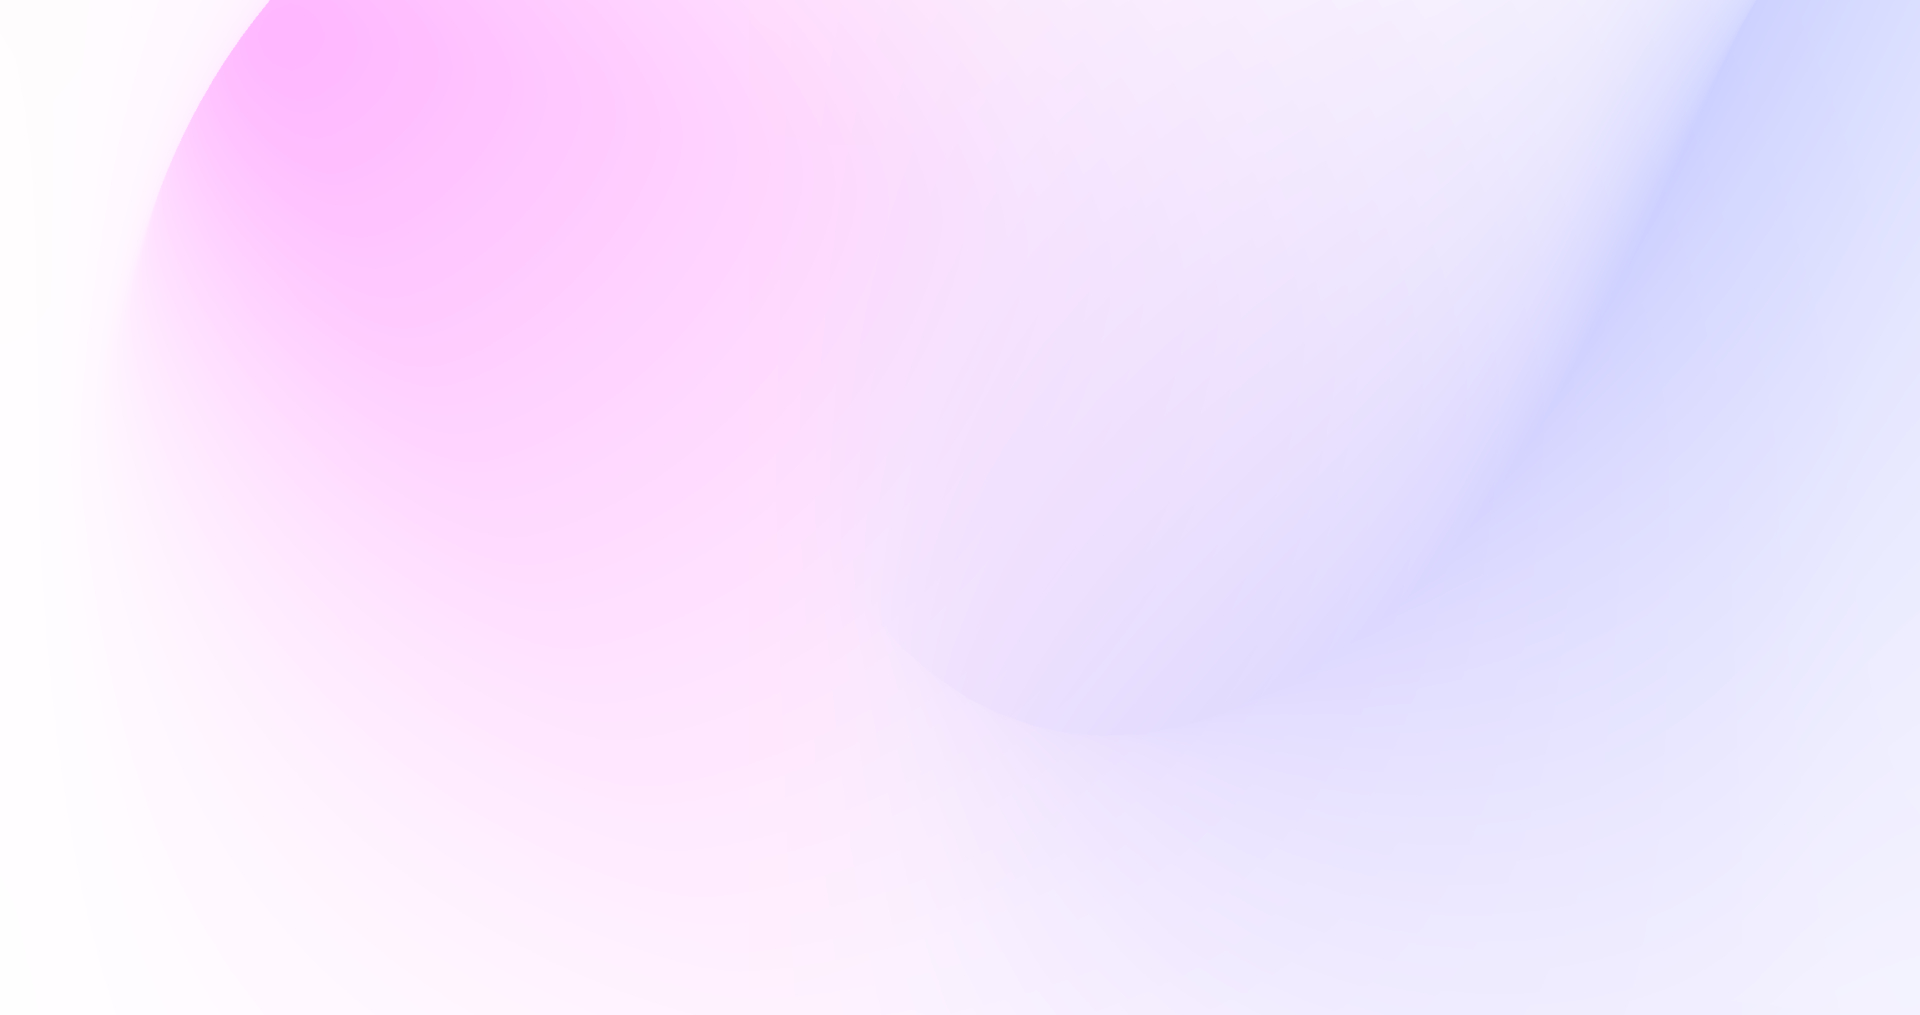
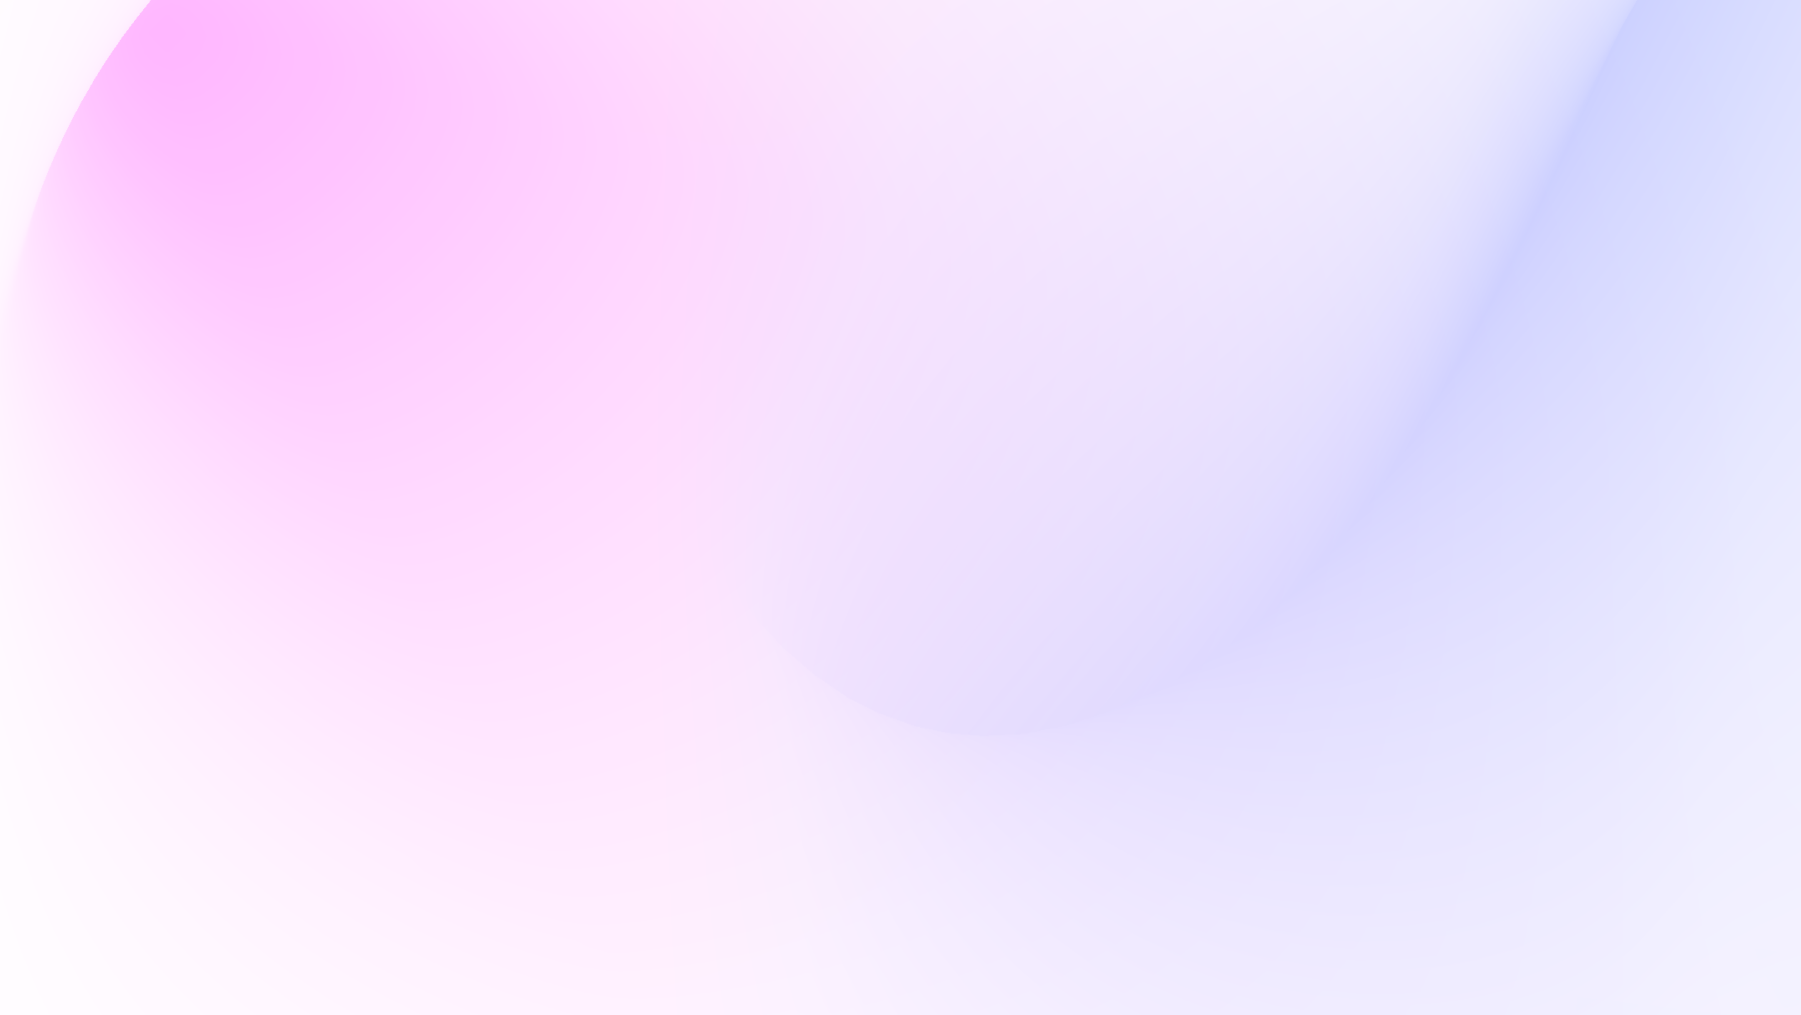
added testimonials section

Changed region(s): [[0.0, 0.0, 0.1555, 0.3665]]

diff --git a/src/components/Testimonials.js b/src/components/Testimonials.js
@@ -1,14 +1,44 @@
 import React from "react";
 import assest30 from "../assets/asset 30.png";
+import StarRoundedIcon from "@mui/icons-material/StarRounded";
+import { testimonials } from "../constants/constant";
 
 const Testimonials = () => {
   return (
-    <div>
-      <h1>What our awesome customers say</h1>
-      <p className="info-text">Our team has a successful track record of helping brands scale profitably based on high-performing strategies.</p>
-      <div>
+    <div className="w-full min-h-screen flex relative">
+      <img
+        src={assest30}
+        alt="background"
+        className="absolute top-0 left-0 w-full h-full z-0 object-cover"
+      />
+      <div className="w-[1200px] m-auto relative  py-[140px] z-10 flex flex-col place-items-center">
+        <h1 className="text-[40px] leading-[48px] mb-5 font-bold w-4/12 text-center">
+          What our awesome customers say
+        </h1>
+        <p className="info-text w-6/12 text-center mb-12">
+          Our team has a successful track record of helping brands scale
+          profitably based on high-performing strategies.
+        </p>
+        <div className="flex place-items-center gap-5">
+          {testimonials.map((item) => {
+            return (
+              <div key={item.name} className="bg-white rounded-[36px] px-5 py-10 flex flex-col place-items-center">
+                <img src={item.imgUrl} alt="client-profile" className="w-[90px] h-[90px] object-cover rounded-full mb-5"/>
+                <h3 className="text-[20px] font-[500]">{item.name}</h3>
+                <p className="info-text mb-5">{item.role}</p>
+                <p className="text-[20px] mb-5">{'"' +  item.comment + '"' }</p>
+                <p className="text-yellow text-[30px]">
+                  <StarRoundedIcon fontSize="inherit"/>
+                  <StarRoundedIcon fontSize="inherit"/>
+                  <StarRoundedIcon fontSize="inherit"/>
+                  <StarRoundedIcon fontSize="inherit"/>
+                  <StarRoundedIcon fontSize="inherit"/>
+                </p>
+              </div>
+            );
+          })}
+        </div>
       </div>
-      <div></div>
     </div>
   );
 };
